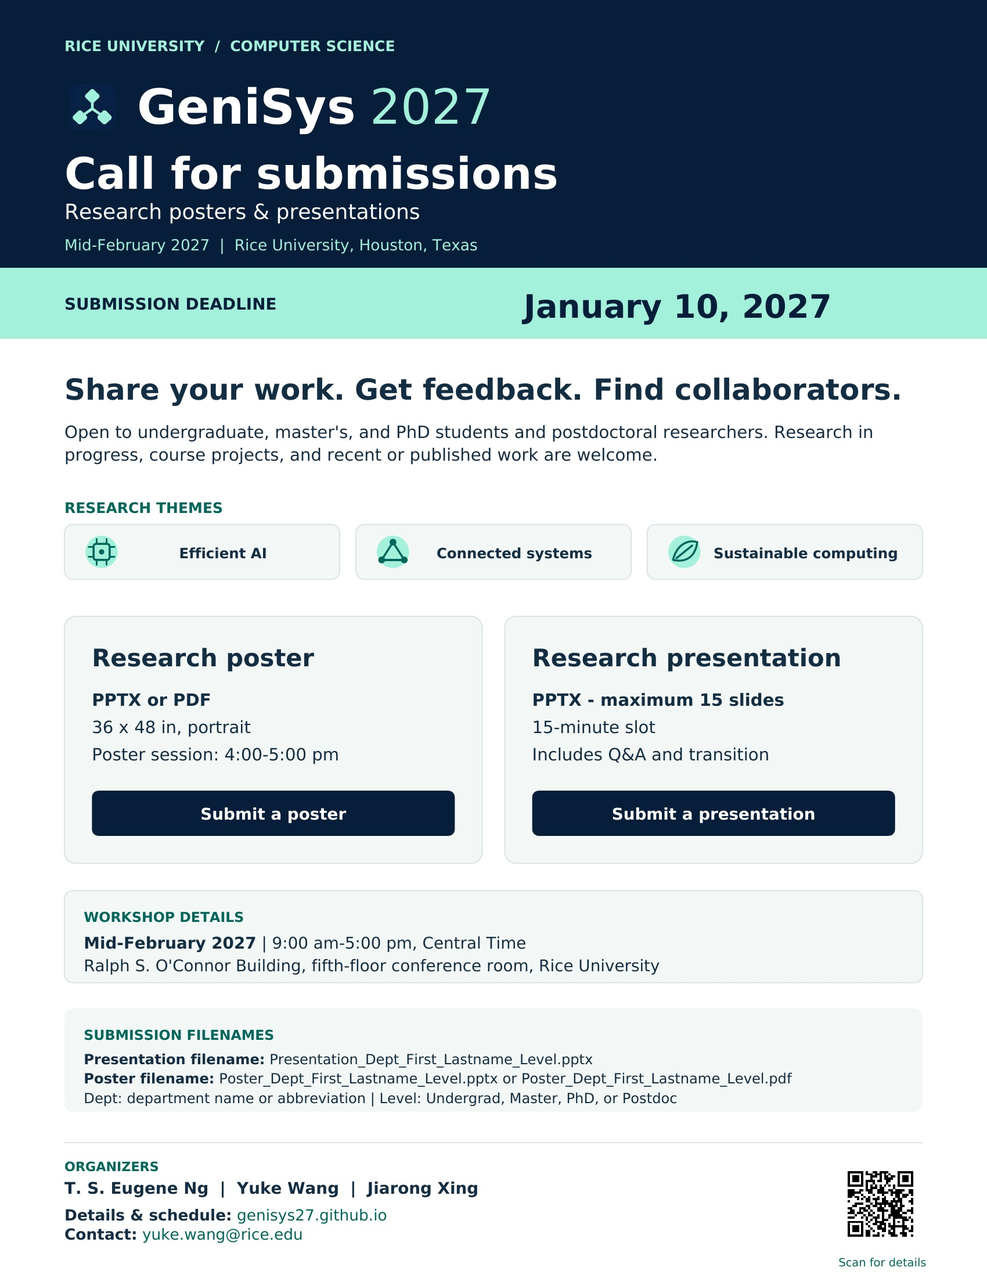
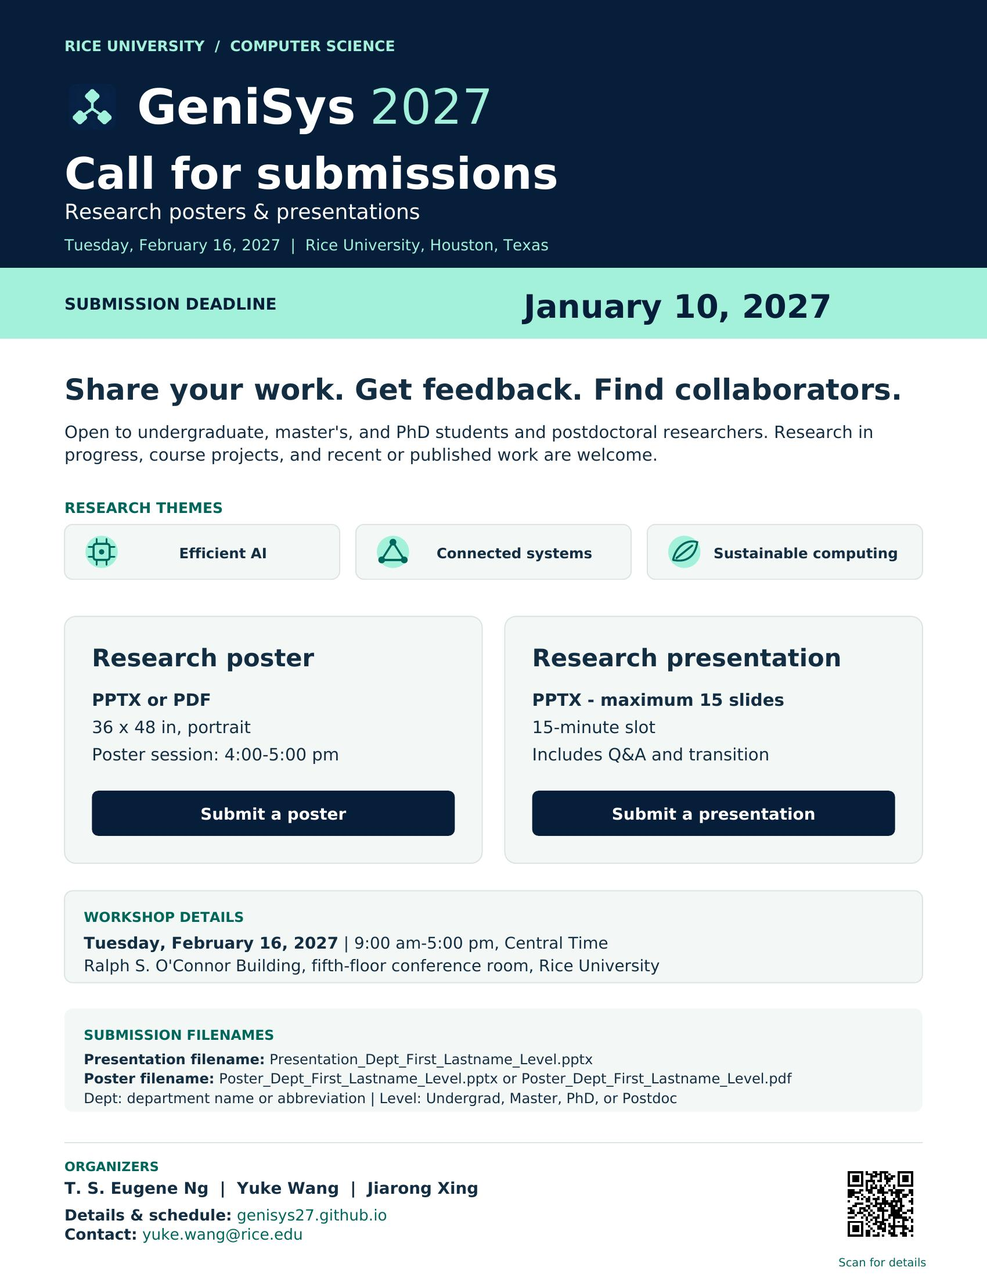
Confirm February 16 workshop date

Changed region(s): [[0.0935, 0.7109, 0.5612, 0.7418], [0.0624, 0.1855, 0.4988, 0.2164], [0.53, 0.1855, 0.5612, 0.2164]]

diff --git a/poster.html b/poster.html
@@ -1,1 +1,1 @@
-<!doctype html><html lang="en"><head><meta charset="utf-8"><meta name="viewport" content="width=device-width, initial-scale=1"><title>GeniSys 2027 | Mid-February 2027 event poster</title><meta name="description" content="GeniSys 2027 in mid-February 2027: event poster and call for research posters and presentations from undergraduate, master’s, and PhD students and postdoctoral researchers."><link rel="icon" type="image/png" sizes="32x32" href="assets/favicon-32.png?v=network-1"><link rel="icon" type="image/png" sizes="16x16" href="assets/favicon-16.png?v=network-1"><link rel="apple-touch-icon" sizes="180x180" href="assets/apple-touch-icon.png?v=network-1"><link rel="stylesheet" href="poster.css?v=1.1.0"></head><body><div class="print-toolbar"><a href="index.html#posters">Back to workshop</a><span>A3 portrait · Enable background graphics; disable headers and footers</span><a href="output/pdf/genisys-2027-call-for-submissions.pdf?v=1.2.6" target="_blank" rel="noopener noreferrer" aria-label="View the call for submissions PDF (opens in a new tab)">Call for submissions (PDF)</a><a href="output/image/genisys-2027-call-for-submissions.jpg?v=1.0.2" download>Poster (JPG)</a><button type="button" id="print-poster">Print / Save PDF</button></div><div id="print-sheet"><div class="print-masthead">RICE UNIVERSITY · DEPARTMENT OF COMPUTER SCIENCE</div><h1>GeniSys <span>2027</span></h1><div class="print-headline">AI. Systems.<br>Networking.</div><h2>Exploring synergy for a sustainable future.</h2><div class="print-meta">RICE UNIVERSITY · HOUSTON, TEXAS<br>RALPH S. O’CONNOR BUILDING FOR ENGINEERING AND SCIENCE<br>FIFTH-FLOOR CONFERENCE ROOM<br>MID-FEBRUARY 2027</div><img src="assets/rice-sallyport.jpg" alt=""><h3>Call for posters &amp; presentations</h3><p class="print-lead">Share your research, receive feedback, and meet potential collaborators.</p><p>Poster and presentation submissions are open to undergraduate, master’s, and PhD students and postdoctoral researchers. Undergraduate and master’s students are especially encouraged to submit. Draft materials are welcome and may be refined before the workshop. Research in progress, research-oriented course projects, and recent or previously published work are welcome. Topics include AI algorithm design, agent systems, scalable training and inference, AI infrastructure, networking, heterogeneous computing, security, reliability, and sustainability.</p><div class="print-info"><div><strong>One-day workshop</strong><p>9:00 am–5:00 pm · Tentative<br>Posters &amp; demos · 4:00–5:00 pm<br>3 invited speaker slots · 45 min each<br>Speakers to be announced<br>Up to 9 research talks · Max. 3 per session<br>75-minute lunch · Two 30-minute coffee breaks<br>Open discussion · 3:45–4:00 pm</p><strong>Submission deadline</strong><p><!-- submission:deadline --><time datetime="2027-01-10">January 10, 2027</time><!-- /submission:deadline --></p><strong>Submission links &amp; updates</strong><p><a class="poster-upload-link" href="https://genisys27.github.io/#posters">genisys27.github.io/#posters</a></p></div><div><strong>Research poster submissions</strong><p><!-- box:poster -->PPTX or PDF · Upload through Box<br><a class="poster-upload-link" href="https://rice.app.box.com/f/0370111606fc4a1da368d135b485fb80" target="_blank" rel="noopener noreferrer">https://rice.app.box.com/f/0370111606fc4a1da368d135b485fb80</a><!-- /box:poster --></p><strong>Research presentations</strong><p>Talk allocation across career stages and research groups will reflect submissions.<br>PPTX format · 15-minute slots, including Q&amp;A and transition.<br>Maximum 15 slides.<br><!-- presentation:poster --><a class="poster-upload-link" href="https://rice.app.box.com/f/4326bc92911c49e6beec9122233712e3" target="_blank" rel="noopener noreferrer">Submit a presentation</a><!-- /presentation:poster --></p></div></div><div class="print-organizers"><strong>ORGANIZERS</strong><p>T. S. Eugene Ng · Yuke Wang · Jiarong Xing<br>Department of Computer Science, Rice University</p></div></div><script src="script.js" defer></script></body></html>
+<!doctype html><html lang="en"><head><meta charset="utf-8"><meta name="viewport" content="width=device-width, initial-scale=1"><title>GeniSys 2027 | February 16, 2027 event poster</title><meta name="description" content="GeniSys 2027 on Tuesday, February 16, 2027: event poster and call for research posters and presentations from undergraduate, master’s, and PhD students and postdoctoral researchers."><link rel="icon" type="image/png" sizes="32x32" href="assets/favicon-32.png?v=network-1"><link rel="icon" type="image/png" sizes="16x16" href="assets/favicon-16.png?v=network-1"><link rel="apple-touch-icon" sizes="180x180" href="assets/apple-touch-icon.png?v=network-1"><link rel="stylesheet" href="poster.css?v=1.1.0"></head><body><div class="print-toolbar"><a href="index.html#posters">Back to workshop</a><span>A3 portrait · Enable background graphics; disable headers and footers</span><a href="output/pdf/genisys-2027-call-for-submissions.pdf?v=1.4.1" target="_blank" rel="noopener noreferrer" aria-label="View the call for submissions PDF (opens in a new tab)">Call for submissions (PDF)</a><a href="output/image/genisys-2027-call-for-submissions.jpg?v=1.4.1" download>Poster (JPG)</a><button type="button" id="print-poster">Print / Save PDF</button></div><div id="print-sheet"><div class="print-masthead">RICE UNIVERSITY · DEPARTMENT OF COMPUTER SCIENCE</div><h1>GeniSys <span>2027</span></h1><div class="print-headline">AI. Systems.<br>Networking.</div><h2>Exploring synergy for a sustainable future.</h2><div class="print-meta">RICE UNIVERSITY · HOUSTON, TEXAS<br>RALPH S. O’CONNOR BUILDING FOR ENGINEERING AND SCIENCE<br>FIFTH-FLOOR CONFERENCE ROOM<br>TUESDAY, FEBRUARY 16, 2027</div><img src="assets/rice-sallyport.jpg" alt=""><h3>Call for posters &amp; presentations</h3><p class="print-lead">Share your research, receive feedback, and meet potential collaborators.</p><p>Poster and presentation submissions are open to undergraduate, master’s, and PhD students and postdoctoral researchers. Undergraduate and master’s students are especially encouraged to submit. Draft materials are welcome and may be refined before the workshop. Research in progress, research-oriented course projects, and recent or previously published work are welcome. Topics include AI algorithm design, agent systems, scalable training and inference, AI infrastructure, networking, heterogeneous computing, security, reliability, and sustainability.</p><div class="print-info"><div><strong>One-day workshop</strong><p>9:00 am–5:00 pm · Tentative<br>Posters &amp; demos · 4:00–5:00 pm<br>3 invited speaker slots · 45 min each<br>Speakers to be announced<br>Up to 9 research talks · Max. 3 per session<br>75-minute lunch · Two 30-minute coffee breaks<br>Open discussion · 3:45–4:00 pm</p><strong>Submission deadline</strong><p><!-- submission:deadline --><time datetime="2027-01-10">January 10, 2027</time><!-- /submission:deadline --></p><strong>Submission links &amp; updates</strong><p><a class="poster-upload-link" href="https://genisys27.github.io/#posters">genisys27.github.io/#posters</a></p></div><div><strong>Research poster submissions</strong><p><!-- box:poster -->PPTX or PDF · Upload through Box<br><a class="poster-upload-link" href="https://rice.app.box.com/f/0370111606fc4a1da368d135b485fb80" target="_blank" rel="noopener noreferrer">https://rice.app.box.com/f/0370111606fc4a1da368d135b485fb80</a><!-- /box:poster --></p><strong>Research presentations</strong><p>Talk allocation across career stages and research groups will reflect submissions.<br>PPTX format · 15-minute slots, including Q&amp;A and transition.<br>Maximum 15 slides.<br><!-- presentation:poster --><a class="poster-upload-link" href="https://rice.app.box.com/f/4326bc92911c49e6beec9122233712e3" target="_blank" rel="noopener noreferrer">Submit a presentation</a><!-- /presentation:poster --></p></div></div><div class="print-organizers"><strong>ORGANIZERS</strong><p>T. S. Eugene Ng · Yuke Wang · Jiarong Xing<br>Department of Computer Science, Rice University</p></div></div><script src="script.js" defer></script></body></html>

diff --git a/index.html b/index.html
@@ -4,10 +4,10 @@
   <meta charset="utf-8">
   <meta name="viewport" content="width=device-width, initial-scale=1">
   <meta name="theme-color" content="#071e3b">
-  <title>GeniSys 2027 | Mid-February 2027 at Rice University</title>
-  <meta name="description" content="Join GeniSys 2027 at Rice University in mid-February 2027. Share research in AI, systems, and networking, receive feedback, and meet collaborators. Students and postdoctoral researchers are invited to submit posters and presentations; draft materials are welcome.">
-  <meta property="og:title" content="GeniSys 2027 · Mid-February 2027 · Rice University">
-  <meta property="og:description" content="AI, systems, and networking for a sustainable future. A mid-February 2027 workshop at Rice University welcoming poster and presentation submissions from undergraduate, master’s, and PhD students and postdoctoral researchers. Draft materials are welcome.">
+  <title>GeniSys 2027 | February 16, 2027 at Rice University</title>
+  <meta name="description" content="Join GeniSys 2027 at Rice University on Tuesday, February 16, 2027. Share research in AI, systems, and networking, receive feedback, and meet collaborators. Students and postdoctoral researchers are invited to submit posters and presentations; draft materials are welcome.">
+  <meta property="og:title" content="GeniSys 2027 · February 16, 2027 · Rice University">
+  <meta property="og:description" content="AI, systems, and networking for a sustainable future. A February 16, 2027 workshop at Rice University welcoming poster and presentation submissions from undergraduate, master’s, and PhD students and postdoctoral researchers. Draft materials are welcome.">
   <meta property="og:type" content="website">
   <link rel="canonical" href="https://genisys27.github.io/">
   <meta property="og:url" content="https://genisys27.github.io/">
@@ -38,7 +38,7 @@
   <section class="hero" id="home" aria-labelledby="hero-title">
     <div class="hero-inner page-width">
       <div class="hero-copy">
-        <p class="eyebrow">RICE UNIVERSITY · MID-FEBRUARY 2027</p>
+        <p class="eyebrow">RICE UNIVERSITY · TUESDAY, FEBRUARY 16, 2027</p>
         <h1 id="hero-title">GeniSys <span>2027</span></h1>
         <p class="hero-statement">AI, systems &amp; networking.</p>
         <p class="hero-description">A one-day workshop on efficient, connected, and sustainable computing. Share your research, receive feedback, practice presenting to a broader audience, and meet potential collaborators.</p>
@@ -53,7 +53,7 @@
       </figure>
     </div>
     <dl class="event-facts page-width" aria-label="Workshop details">
-      <div><dt>When</dt><dd>Mid-February 2027<span>One-day workshop</span></dd></div>
+      <div><dt>When</dt><dd><time datetime="2027-02-16">Tuesday, February 16, 2027</time><span>One-day workshop</span></dd></div>
       <div><dt>Where</dt><dd><a href="#venue">Rice University</a><span>O’Connor Building · Fifth floor</span></dd></div>
       <div><dt>Format</dt><dd>Talks, posters &amp; discussion<span>All sessions held sequentially</span></dd></div>
     </dl>
@@ -77,7 +77,7 @@
         <span class="outline-label">Tentative</span>
       </div>
       <dl class="schedule-facts">
-        <div><dt>When</dt><dd>Mid-February 2027<span>One-day workshop</span></dd></div>
+        <div><dt>When</dt><dd><time datetime="2027-02-16">Tuesday, February 16, 2027</time><span>One-day workshop</span></dd></div>
         <div><dt>Time</dt><dd>9:00 am–5:00 pm<span>Houston · Central Time</span></dd></div>
         <div><dt>Where</dt><dd><a href="#venue">Rice University · O’Connor Building</a><span>Fifth-floor conference room</span></dd></div>
       </dl>
@@ -125,7 +125,7 @@
           <p class="poster-guidance"><strong>Draft materials welcome.</strong> Submitted slides and posters need not be final; you may refine them before the workshop.</p>
           <p class="poster-guidance">Research in progress, research-oriented course projects, and recent or previously published work in AI, systems, and networking are welcome.</p>
           <ul class="presentation-highlights"><li>We plan to select <strong>up to 9 research talks</strong> across career stages and research groups. At most three talks per research session; the final allocation will reflect submissions.</li><li><strong>15 minutes per talk</strong>, including Q&amp;A and transition.</li><li><strong>Maximum 15 slides</strong> · PPTX format.</li></ul>
-          <div class="poster-actions"><!-- box:actions --><div class="submission-buttons"><a class="button button-dark" href="https://rice.app.box.com/f/0370111606fc4a1da368d135b485fb80" target="_blank" rel="noopener noreferrer">Submit a poster <span aria-hidden="true">↗</span></a><a class="button button-dark" href="https://rice.app.box.com/f/4326bc92911c49e6beec9122233712e3" target="_blank" rel="noopener noreferrer">Submit a presentation <span aria-hidden="true">↗</span></a></div><a class="text-link" href="output/pdf/genisys-2027-call-for-submissions.pdf?v=1.2.6" target="_blank" rel="noopener noreferrer" aria-label="View the call for submissions PDF (opens in a new tab)">View the call for submissions (PDF) <span aria-hidden="true">↗</span></a><a class="text-link" href="output/image/genisys-2027-call-for-submissions.jpg?v=1.0.2" download>Download poster (JPG) <span aria-hidden="true">↓</span></a><!-- /box:actions --></div>
+          <div class="poster-actions"><!-- box:actions --><div class="submission-buttons"><a class="button button-dark" href="https://rice.app.box.com/f/0370111606fc4a1da368d135b485fb80" target="_blank" rel="noopener noreferrer">Submit a poster <span aria-hidden="true">↗</span></a><a class="button button-dark" href="https://rice.app.box.com/f/4326bc92911c49e6beec9122233712e3" target="_blank" rel="noopener noreferrer">Submit a presentation <span aria-hidden="true">↗</span></a></div><a class="text-link" href="output/pdf/genisys-2027-call-for-submissions.pdf?v=1.4.1" target="_blank" rel="noopener noreferrer" aria-label="View the call for submissions PDF (opens in a new tab)">View the call for submissions (PDF) <span aria-hidden="true">↗</span></a><a class="text-link" href="output/image/genisys-2027-call-for-submissions.jpg?v=1.4.1" download>Download poster (JPG) <span aria-hidden="true">↓</span></a><!-- /box:actions --></div>
         </div>
         <aside class="submission-panel" aria-labelledby="submission-details-title">
           <h3 id="submission-details-title">Submission details</h3>

diff --git a/scripts/build-call-pdf.py b/scripts/build-call-pdf.py
@@ -45,6 +45,13 @@ def build():
     config = json.loads((ROOT / "workshop.json").read_text())
     poster_url = submission_url(config, "boxUploadUrl")
     presentation_url = submission_url(config, "studentPresentationUrl")
+    event_iso = config.get("eventDate", "").strip()
+    if not event_iso:
+        raise ValueError("eventDate must use YYYY-MM-DD")
+    event_date = date.fromisoformat(event_iso)
+    if event_date.isoformat() != event_iso:
+        raise ValueError("eventDate must use YYYY-MM-DD")
+    event_label = f"{event_date:%A}, {event_date:%B} {event_date.day}, {event_date.year}"
     iso = config.get("submissionDeadline", "").strip()
     if iso:
         deadline = date.fromisoformat(iso)
@@ -143,7 +150,7 @@ def build():
     text("2027", 85 + pdfmetrics.stringWidth("GeniSys", "CallSans-Bold", 30) + 9, 47, 30, False, MINT)
     text("Call for submissions", MARGIN, 90, 27, True, white)
     text("Research posters & presentations", MARGIN, 123, 13, False, white)
-    text("Mid-February 2027  |  Rice University, Houston, Texas",
+    text(f"{event_label}  |  Rice University, Houston, Texas",
          MARGIN, 146, 9.5, False, MINT)
 
     box(0, 166, WIDTH, 44, MINT)
@@ -192,7 +199,7 @@ def build():
 
     box(MARGIN, 552, CONTENT, 57, PALE, radius=5, stroke=LINE)
     text("WORKSHOP DETAILS", MARGIN + 12, 563, 8.5, True, TEAL)
-    paragraph("<b>Mid-February 2027</b>  |  9:00 am-5:00 pm, Central Time<br/>"
+    paragraph(f"<b>{event_label}</b>  |  9:00 am-5:00 pm, Central Time<br/>"
               "Ralph S. O'Connor Building, fifth-floor conference room, Rice University",
               MARGIN + 12, 578, CONTENT - 24, 10, 14, max_height=28)
 

diff --git a/README.md b/README.md
@@ -1,8 +1,8 @@
 # GeniSys 2027 workshop website
 
-This repository contains the website, printable event poster, and call for research posters and presentations for GeniSys 2027 at Rice University in mid-February 2027. Submissions are open to undergraduate, master’s, and PhD students and postdoctoral researchers. The workshop explores AI, systems, and networking for a sustainable future.
+This repository contains the website, printable event poster, and call for research posters and presentations for GeniSys 2027 at Rice University on Tuesday, February 16, 2027. Submissions are open to undergraduate, master’s, and PhD students and postdoctoral researchers. The workshop explores AI, systems, and networking for a sustainable future.
 
-**Confirmed event:** GeniSys 2027, mid-February 2027. Track remaining decisions in [PROGRESS.md](PROGRESS.md).
+**Confirmed event:** GeniSys 2027, Tuesday, February 16, 2027. Track remaining decisions in [PROGRESS.md](PROGRESS.md).
 
 ## Included
 
@@ -64,7 +64,7 @@ The PDF builder requires the Python `reportlab` package and embeds the sans-seri
 
 The venue is the fifth-floor conference room in Rice University’s Ralph S. O’Connor Building for Engineering and Science. The embedded Google Map marks the building; a direct Google Maps link is available as a fallback.
 
-Separate organizer-provided links handle research poster uploads and research presentation submissions from undergraduate, master’s, and PhD students and postdoctoral researchers. The **Upload your research** panel includes a PPTX presentation link and a separate embedded poster form for PPTX or PDF files; direct links to `#poster-upload` open that panel automatically. Both destinations appear on the printable event poster and in the downloadable call. The recommended research poster size is 36 in wide × 48 in tall (portrait; approximately 91 × 122 cm). Both submission types are due January 10, 2027. Presentations must be PPTX files; research posters may be PPTX or PDF files. The workshop is planned for mid-February 2027. The program is tentative and runs from 9:00 am to 5:00 pm in Houston (Central Time), with all sessions held sequentially. Three invited speaker slots are planned for 45 minutes at 9:00–9:45 am, 11:00–11:45 am, and 1:45–2:30 pm, including introductions, Q&A, and transitions. Lunch and discussion run from 11:45 am to 1:00 pm (75 minutes), with two 30-minute coffee breaks at 10:30–11:00 am and 2:30–3:00 pm. Open discussion and transition run from 3:45 to 4:00 pm. Posters and demos finish the day from 4:00 to 5:00 pm.
+Separate organizer-provided links handle research poster uploads and research presentation submissions from undergraduate, master’s, and PhD students and postdoctoral researchers. The **Upload your research** panel includes a PPTX presentation link and a separate embedded poster form for PPTX or PDF files; direct links to `#poster-upload` open that panel automatically. Both destinations appear on the printable event poster and in the downloadable call. The recommended research poster size is 36 in wide × 48 in tall (portrait; approximately 91 × 122 cm). Both submission types are due January 10, 2027. Presentations must be PPTX files; research posters may be PPTX or PDF files. The workshop is Tuesday, February 16, 2027. The program is tentative and runs from 9:00 am to 5:00 pm in Houston (Central Time), with all sessions held sequentially. Three invited speaker slots are planned for 45 minutes at 9:00–9:45 am, 11:00–11:45 am, and 1:45–2:30 pm, including introductions, Q&A, and transitions. Lunch and discussion run from 11:45 am to 1:00 pm (75 minutes), with two 30-minute coffee breaks at 10:30–11:00 am and 2:30–3:00 pm. Open discussion and transition run from 3:45 to 4:00 pm. Posters and demos finish the day from 4:00 to 5:00 pm.
 
 Up to 9 research presentations occupy three 45-minute sessions: 9:45–10:30 am, 1:00–1:45 pm, and 3:00–3:45 pm, with up to three talks each. Each presenter has a 15-minute slot, including approximately 10 minutes presenting followed by Q&A and transition. The final allocation across career stages and research groups will reflect submissions. Undergraduate and master’s students are especially encouraged to participate.
 
@@ -122,7 +122,7 @@ Leave `boxUploadUrl` as an empty string and run the same command to keep or rest
 
 ## Configure the submission deadline
 
-Set `submissionDeadline` in `workshop.json` to an ISO date (`YYYY-MM-DD`), then run `node scripts/update-submission.mjs` and `python3 scripts/build-call-pdf.py`. This updates the shared deadline on the homepage, schedule, event poster, and both downloadable calls. Use an empty string while the deadline is pending. Dates are displayed with the month spelled out; no cutoff time has been specified.
+Set `submissionDeadline` in `workshop.json` to an ISO date (`YYYY-MM-DD`), then run `node scripts/update-submission.mjs` and `python3 scripts/build-call-pdf.py`. This updates the shared deadline on the homepage, event poster, and both downloadable calls. Use an empty string while the deadline is pending. The confirmed workshop date is stored separately as `eventDate`; dates are displayed with the month spelled out, and no submission cutoff time has been specified.
 
 ## Submission filenames
 
@@ -132,7 +132,7 @@ Use `Presentation_Dept_First_Lastname_Level.pptx` for research presentations. Fo
 
 Research presentations from undergraduate, master’s, and PhD students and postdoctoral researchers must be submitted as PPTX files and may contain no more than 15 slides. This requirement appears beside the submission buttons, on the event poster, and in the downloadable call.
 
-The homepage’s `#posters` section and the bottom of the schedule have matching buttons for research presentation submissions and poster submissions. Set `studentPresentationUrl` in `workshop.json` to the organizer-provided HTTPS submission form, then run `node scripts/update-submission.mjs` and `python3 scripts/build-call-pdf.py`. These scripts also update the presentation link on the printable event poster and in both downloadable calls. The destination can be hosted on Box or another service. This setting is independent of the poster upload link.
+The homepage’s `#posters` section has matching buttons for research presentation submissions and poster submissions. Set `studentPresentationUrl` in `workshop.json` to the organizer-provided HTTPS submission form, then run `node scripts/update-submission.mjs` and `python3 scripts/build-call-pdf.py`. These scripts also update the presentation link on the printable event poster and in both downloadable calls. The destination can be hosted on Box or another service. This setting is independent of the poster upload link.
 
 Leave `studentPresentationUrl` empty while the destination is pending. Both pages then show a disabled presentation button and a message that its submission link will be announced. The event poster and downloadable call also show the pending status. Do not edit inside the `presentation:` markers directly; the script regenerates those links. No research presentation files are collected by the static website itself.
 

diff --git a/PROGRESS.md b/PROGRESS.md
@@ -1,6 +1,6 @@
 # GeniSys 2027 workshop progress
 
-Last updated: October 31, 2026
+Last updated: November 6, 2026
 
 ## First version
 
@@ -45,7 +45,7 @@ Last updated: October 31, 2026
 ## Decisions needed before circulation
 
 - [x] Confirm the event name and season: GeniSys 2027, Spring 2027.
-- [x] Confirm the workshop timing as mid-February 2027 and update all materials consistently.
+- [x] Confirm the workshop date as Tuesday, February 16, 2027, and update all materials consistently.
 - [x] Confirm the venue: Ralph S. O’Connor Building for Engineering and Science, fifth-floor conference room.
 - [x] Set January 10, 2027 as the shared poster and research-presentation submission deadline.
 - [x] Confirm the submission channel: research posters are uploaded through Box.
@@ -104,7 +104,7 @@ Last updated: October 31, 2026
 - [x] Welcome research in progress and research-oriented course projects, alongside recent and previously published work.
 - [x] Emphasize research feedback, presentation practice, and potential collaborators.
 - [x] Replace fixed public career-stage quotas with up to 9 research talks; encourage undergraduate/master’s participation.
-- [x] Update the workshop timing to mid-February 2027; retain invited speakers as to be announced.
+- [x] Update the workshop date to Tuesday, February 16, 2027; retain invited speakers as to be announced.
 - [x] Draft the revised announcement email in the parent workspace’s output/email directory.
 - [x] Update the announcement draft and submission guidance to accept PPTX or PDF posters, with matching filename examples.
 - [x] Verify the one-page PDF, clickable links, website layouts at 320/768/1440px, local links, and submission synchronization.

diff --git a/CHANGELOG.md b/CHANGELOG.md
@@ -1,5 +1,11 @@
 # Changelog
 
+## 1.4.1 - 2026-11-06
+
+- Confirm the workshop date as Tuesday, February 16, 2027, across the website, printable poster, downloadable calls, metadata, and project documentation.
+- Store the event date in the workshop configuration and use it when rebuilding the PDF call.
+- Version downloadable PDF and JPG links to prevent visitors from seeing cached materials with the previous tentative date.
+
 ## 1.4.0 - 2026-10-31
 
 - Integrate Schedule into the homepage so visitors can move between sections without loading a separate page.
